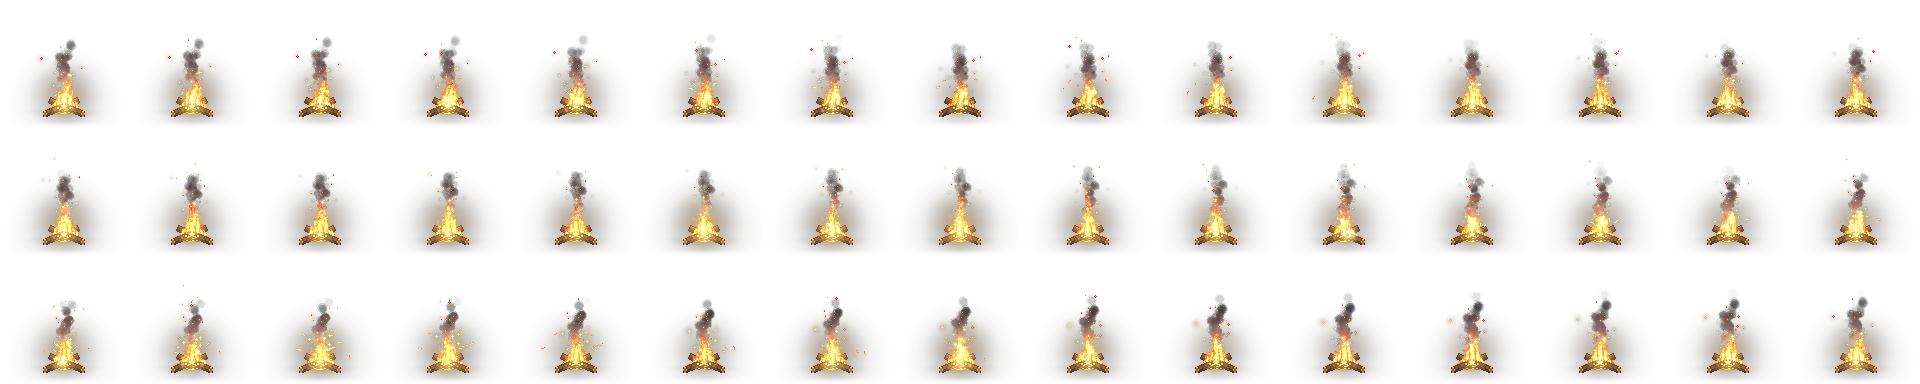
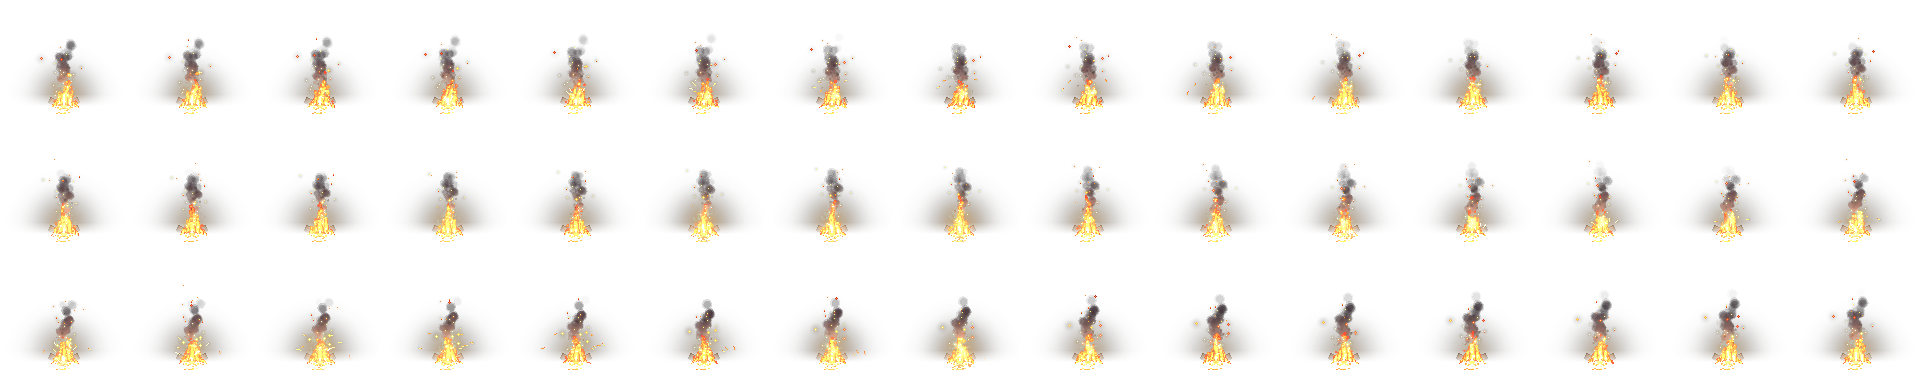
pixelfx campfire without logs on burning buildings (v0.20.1)
Claude-Session: https://claude.ai/code/session_01G3ZjrAEdzY3bS4o8QwE679

diff --git a/tools/art/pixelfx.py b/tools/art/pixelfx.py
@@ -4,6 +4,8 @@ Hier: om het `step`-de frame (minder frames, kleinere textuur) en verkleind met 
 import json
 from PIL import Image
 
+# Kampvuur zonder houtblokken: onder BASE_CUT (fractie van de framehoogte) blijven alleen heldere vlampixels over.
+BASE_CUT = {'campfire': 0.74}
 EFFECTS = {   # naam -> (frame-stap, schaal, max. frames na het overslaan)
     'campfire': (2, 1.0, 999),
     'big-explosion': (2, 0.5, 60),   # na 4 s is het alleen nog rook
@@ -20,7 +22,17 @@ def build_pixelfx(SRC, OUT, MANIFEST):
         rows = -(-len(idx) // cols)
         sheet = Image.new('RGBA', (w * cols, h * rows))
         for k, i in enumerate(idx):
-            fr = im.crop(((i % c) * fw, (i // c) * fh, (i % c + 1) * fw, (i // c + 1) * fh)).resize((w, h), Image.NEAREST)
+            fr = im.crop(((i % c) * fw, (i // c) * fh, (i % c + 1) * fw, (i // c + 1) * fh))
+            if name in BASE_CUT:
+                import numpy as np
+                a = np.array(fr); y0 = int(fh * BASE_CUT[name])
+                lum = a[y0:, :, :3].max(2).astype(int)
+                ramp = np.clip(1 - (np.arange(fh - y0) / max(1, (fh - y0) * 0.35)), 0, 1)[:, None]   # zachte overgang
+                mid = np.zeros((1, a.shape[1]), bool); mid[:, int(fw * 0.38):int(fw * 0.62)] = True   # houtuiteinden aan de zijkant weg
+                keep = np.where((lum >= 235) & mid, 1.0, ramp)                                     # heldere vlammen blijven
+                a[y0:, :, 3] = (a[y0:, :, 3] * keep).astype(np.uint8)
+                fr = Image.fromarray(a)
+            fr = fr.resize((w, h), Image.NEAREST)
             sheet.alpha_composite(fr, ((k % cols) * w, (k // cols) * h))
         sheet.save(f'{OUT}/pfx-{name}.png', optimize=True)
         info[name] = {'frameWidth': w, 'frameHeight': h, 'frames': len(idx), 'fps': meta['fps'] / stepn, 'loop': meta['loop'],
